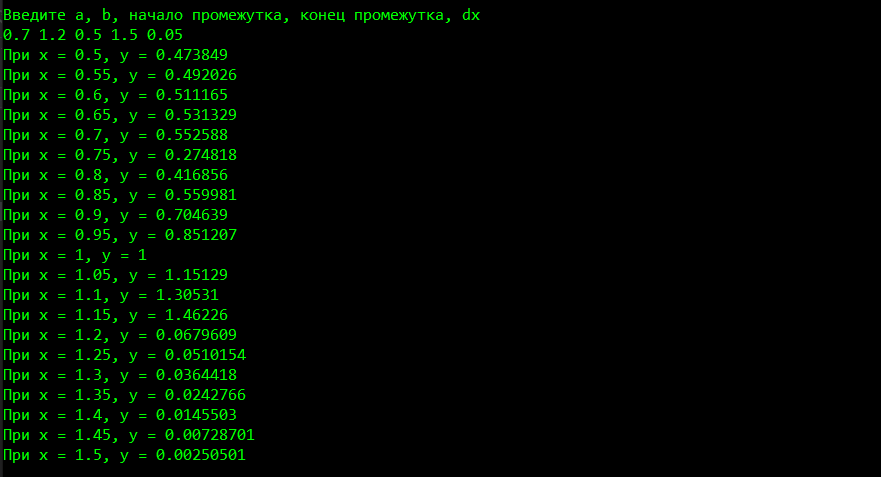
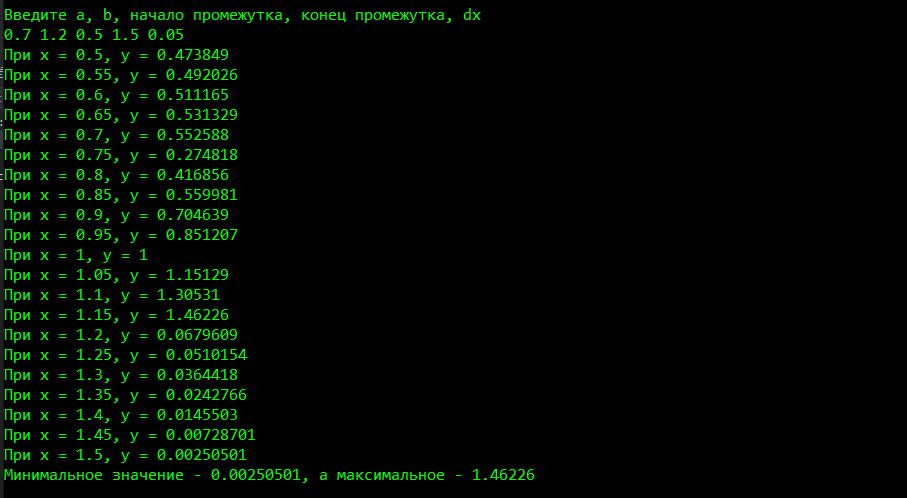
Доработано

Changed region(s): [[0.0, 0.0, 0.5516, 0.9686], [0.521, 0.9392, 0.6129, 0.9686]]

diff --git a/Lab2/lab2/lab2.cpp b/Lab2/lab2/lab2.cpp
@@ -10,7 +10,7 @@ bool isEqual(double a, double b) {
 
 int main() {
 	setlocale(LC_ALL, "Russian");
-	double a, b, x1, x2, dx, y, x;
+	double a, b, x1, x2, dx, y, x, min = numeric_limits<double>::infinity(), max = -numeric_limits<double>::infinity();
 	cout << "Введите a, b, начало промежутка, конец промежутка, dx" << endl;
 	cin >> a >> b >> x1 >> x2 >> dx;
 	if (!dx) {
@@ -31,6 +31,9 @@ int main() {
 		else {
 			y = 1.0 + sin(-x);
 		}
+		if (y > max)max = y;
+		if (y < min)min = y;
 		cout << "При х = " << x << ", y = " << y << endl;
 	}
+	cout << "Минимальное значение - " << min << ", а максимальное - " << max << endl;
 }

diff --git a/Practice1/Task10/Task10.cpp b/Practice1/Task10/Task10.cpp
@@ -15,7 +15,7 @@ int main()
 	cin >> number;
 	cin >> pow;
 	if (pow < 0)cout << "Введите неотрицательную степень" << endl;
-	else if (!pow) cout << result << endl;
+	else if (!pow || number == 1) cout << result << endl;
 	else {
 		while (!pow % 2) {
 			counter++;
